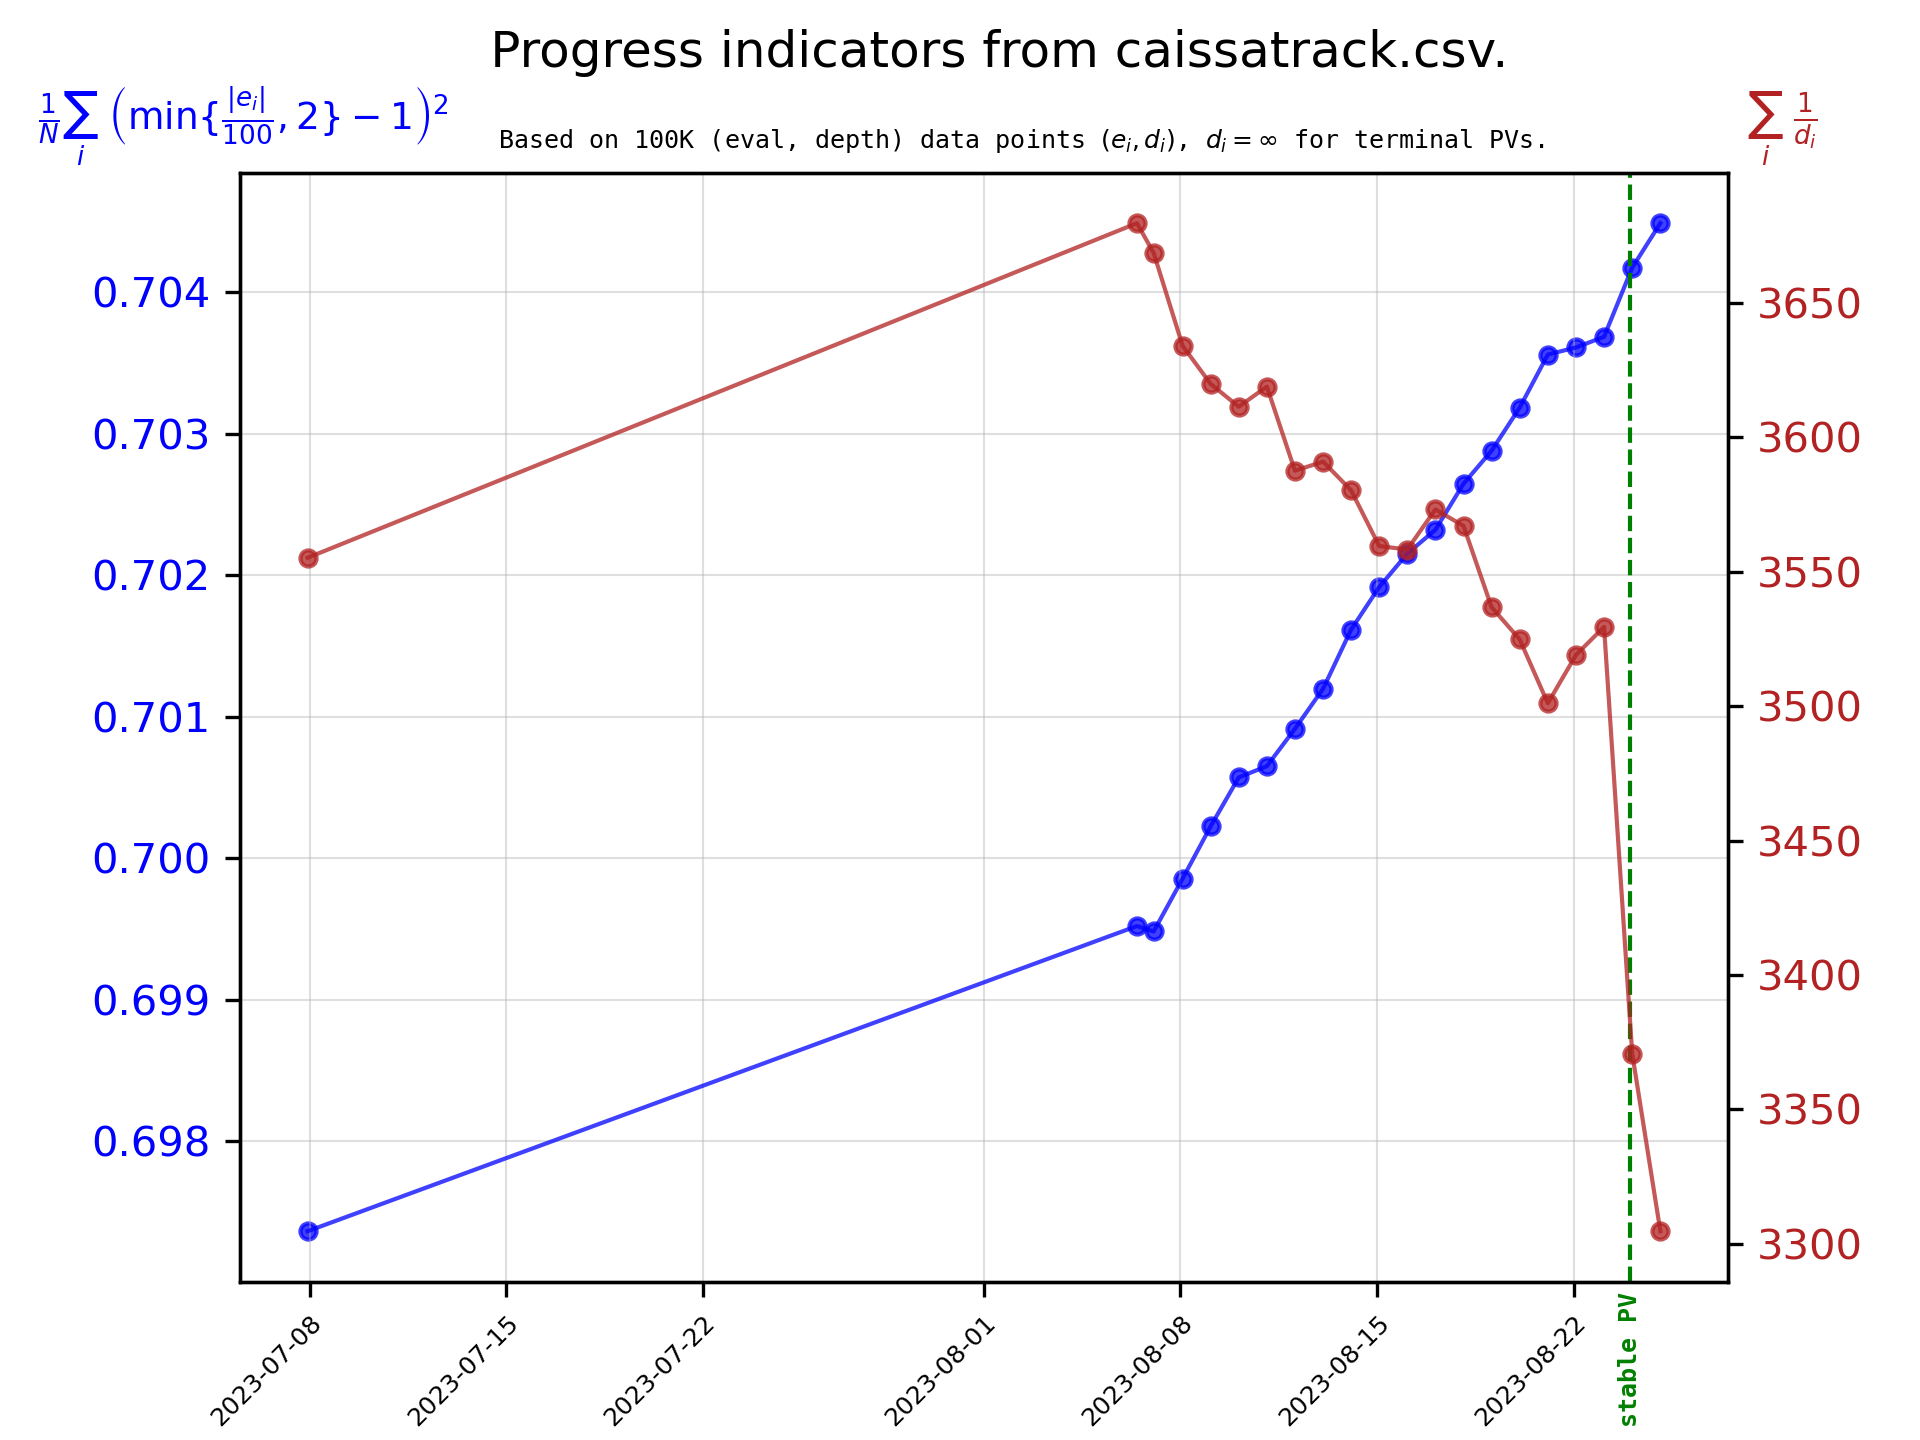
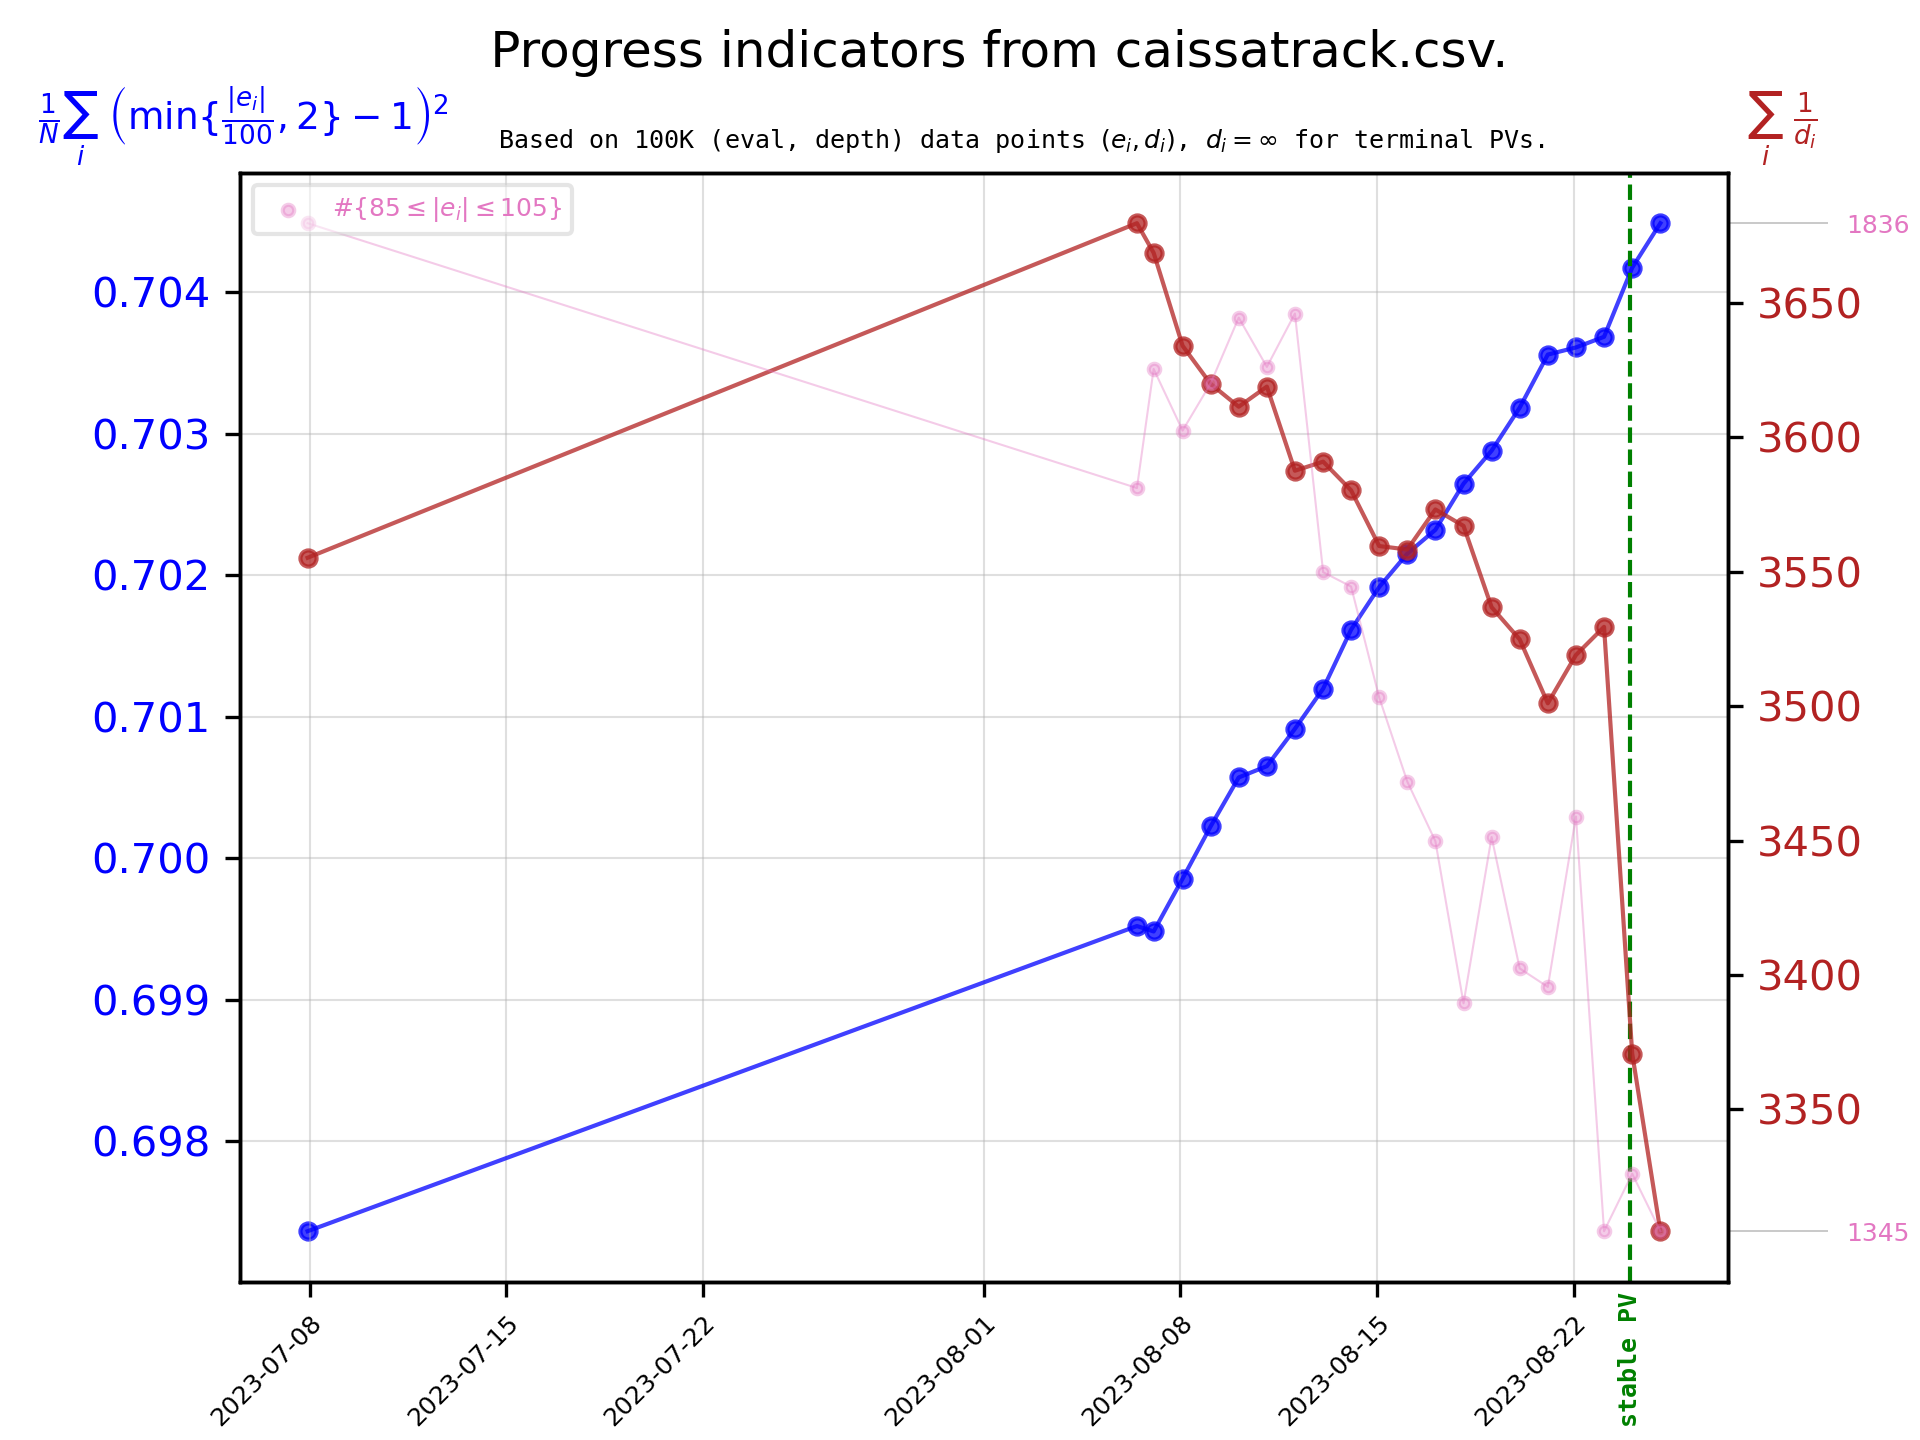
edgy

diff --git a/plotdata.py b/plotdata.py
@@ -9,20 +9,19 @@ evalIndicatorStr, depthIndicatorStr = "", ""
 
 
 def eval_indicator(d):
-    global evalIndicatorStr
+    global evalIndicatorStr, NoP
     evalIndicatorStr = (
         r"$\frac{1}{N} \sum_i\ \left(\min\{\frac{|e_i|}{100},2\} - 1\right)^2$"
     )
-    e = count = 0
+    e = NoP = 0
     for k, v in d.items():
         k = min(abs(k), 200)
-        e += v * (k / 100 - 1) ** 2 / NoP
-        count += v
-    assert count == NoP, "Counting error"
-    return e
+        e += v * (k / 100 - 1) ** 2
+        NoP += v
+    return e / NoP
 
 
-# def depth_indicator(d):  # see depth_indicator_formula
+# def depth_indicator(d):
 #    global depthIndicatorStr
 #    depthIndicatorStr = r"$\left(\prod_i\ d_i\right)^{\frac{1}{N}}$"
 #    p, count = 1, 0
@@ -42,6 +41,14 @@ def depth_indicator(d):
         if k > 0:
             s += v / k
     return s
+
+
+def count_edgy_evals(d, lower, upper):
+    c = 0
+    for k, v in d.items():
+        if lower <= abs(k) <= upper:
+            c += v
+    return c
 
 
 class caissadata:
@@ -177,7 +184,7 @@ class caissadata:
             ax.set_yscale("log")
         plt.savefig(self.prefix + ("pv" if pv else "") + ".png", dpi=300)
 
-    def create_timeseries_graph(self, plotStart=0):
+    def create_timeseries_graph(self, plotStart=0, edgeMin=None, edgeMax=None):
         dateData = [datetime.fromisoformat(d) for d in self.date[plotStart:]]
         evalsData, depthsData = [], []
 
@@ -264,6 +271,53 @@ class caissadata:
             family="monospace",
             weight="bold",
         )
+        if not (edgeMin is None or edgeMax is None):
+            edgeData = []
+            for d in self.evals[plotStart:]:
+                edgeData.append(count_edgy_evals(d, edgeMin, edgeMax))
+            ax3 = ax.twinx()
+            edgeColor = "tab:pink"
+            edgeDotSize, edgeLineWidth, edgeAlpha = (
+                evalDotSize / 2,
+                evalLineWidth / 2,
+                evalAlpha / 2,
+            )
+            e_i = r"$ \leq |e_i| \leq $"
+            edgeStr = f"#{{{edgeMin}{e_i}{edgeMax}}}"
+            ax3.scatter(
+                dateData,
+                edgeData,
+                label=edgeStr,
+                color=edgeColor,
+                s=edgeDotSize,
+                alpha=edgeAlpha,
+            )
+            ax3.plot(
+                dateData,
+                edgeData,
+                color=edgeColor,
+                linewidth=edgeLineWidth,
+                alpha=edgeAlpha,
+            )
+            legend = ax3.legend(fontsize=6, loc="upper left", labelcolor=edgeColor)
+            legend.get_frame().set_alpha(0.5)
+            t = [min(edgeData), max(edgeData)]
+            ax3.set_yticks(t, t)
+            plt.setp(
+                ax3.get_yticklabels(),
+                position=(1.06, 0),
+                fontsize=6,
+                color=edgeColor,
+            )
+            plt.setp(
+                ax3.get_yticklines(),
+                color=edgeColor,
+                markersize=24,
+                markeredgewidth=0.1,
+            )
+            t = [int(l) for l in ax2.get_yticks()[2:-1]]  # hide lowest ylabel
+            ax2.set_yticks(t, t)
+
         plt.savefig(self.prefix + "time.png", dpi=300)
 
 
@@ -300,6 +354,18 @@ if __name__ == "__main__":
         action="store_true",
         help="Create only time evolution graphs.",
     )
+    parser.add_argument(
+        "--edgeMin",
+        help="Lower value for edgy evals to count in time evolution graphs.",
+        type=int,
+        default=None,
+    )
+    parser.add_argument(
+        "--edgeMax",
+        help="Upper value for edgy evals to count in time evolution graphs.",
+        type=int,
+        default=None,
+    )
     args = parser.parse_args()
 
     prefix, _, _ = args.filename.partition(".")
@@ -309,4 +375,6 @@ if __name__ == "__main__":
         data.create_distribution_graph(
             pv=True, logplot=args.logplot >= 2, negplot=args.negplot
         )
-    data.create_timeseries_graph()
+    if args.edgeMin is None or args.edgeMax is None:
+        args.edgeMin = args.edgeMax = None
+    data.create_timeseries_graph(edgeMin=args.edgeMin, edgeMax=args.edgeMax)

diff --git a/Readme.md b/Readme.md
@@ -35,18 +35,22 @@ are written to [`caissa_daily_edgy.epd`](caissa_daily_edgy.epd).
 ## Progress
 
 The following graph attempts to measure the progress cdb makes in exploring
-and evaluating the positions in `caissa_sorted_100000.epd`. It plots the
-evolutions in time of the two (daily) indicators
-$`E = \frac{1}{N} \sum_i \left(\min\{\frac{|e_i|}{100},2\} - 1\right)^2`$
-and
-$D=\sum_i \frac{1}{d_i}$,
+and evaluating the positions in `caissa_sorted_100000.epd`.\
+It plots the evolutions in time of the two (daily) indicators
+```math
+E = \frac{1}{N} \sum_i \left(\min\{\frac{|e_i|}{100},2\} - 1\right)^2
+\qquad \text{and}
+D=\sum_i \frac{1}{d_i},
+```
 where $(e_i, d_i)$ are the evaluation and depth values for the 100K positions,
 with the convention that $d_i = \infty$ if the position's PV ends in a terminal
 leaf (2-fold repetition, 50 moves rule, stalemate, checkmate or 7men EGTB).
 $E$ measures how certain cdb's evaluations are, while $D$ simply sums the
 inverses of the lengths of the non-resolved PVs. Note that as cdb (slowly) 
 approaches the 32men EGTB, $E$ should converge to 1, while $D$
-should converge to 0.
+should converge to 0.\
+In addition the graph also shows the evolution of the total number of "on edge"
+positions.
 
 <p align="center"> <img src="caissatracktime.png?raw=true"> </p>
 
